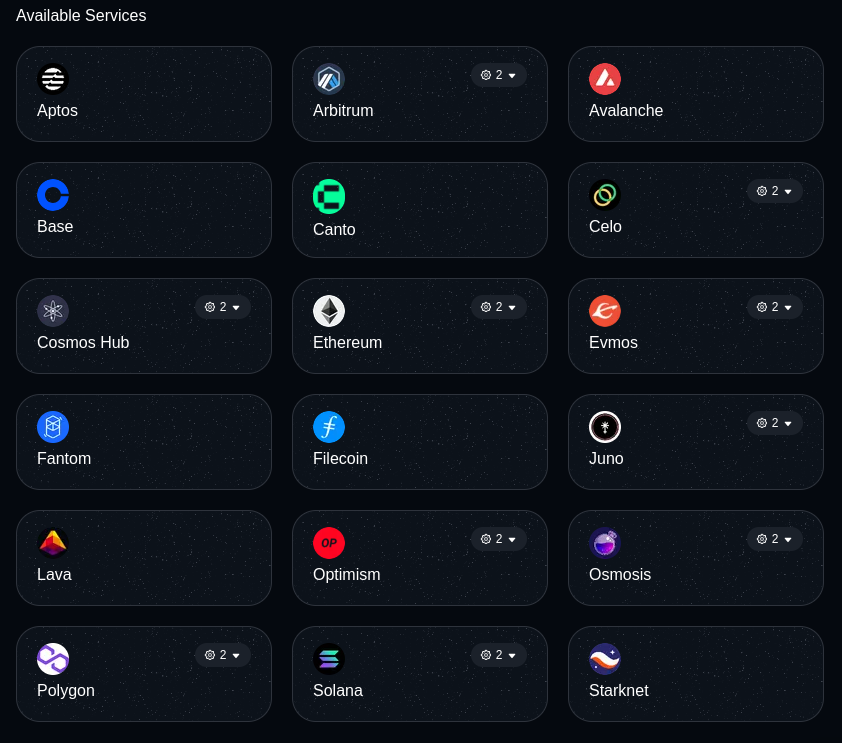
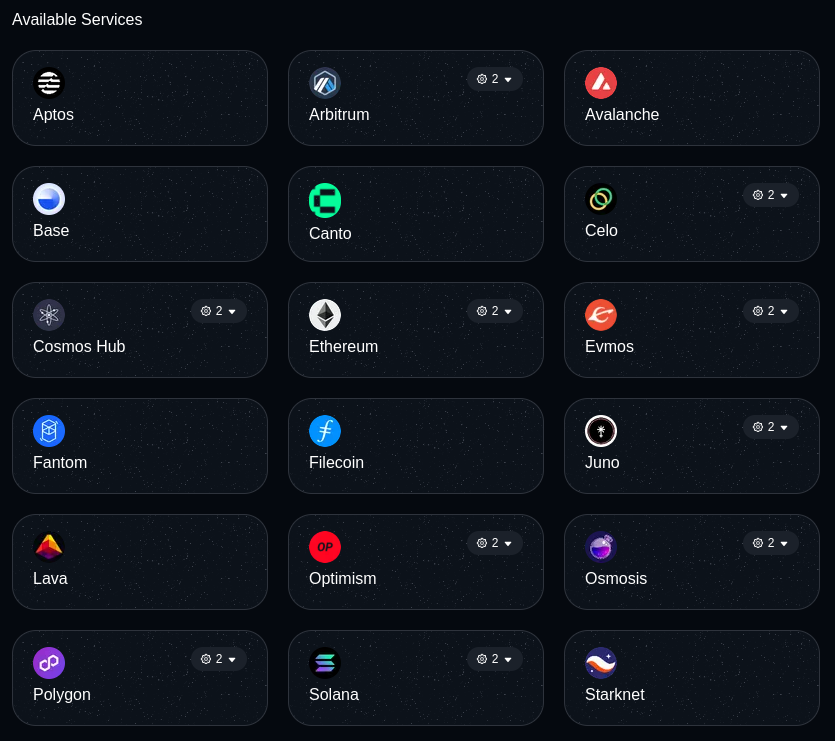
Post-Fork Update (#160)
* update/replace supported chains png

* add UTMs to gateway getting started page

* add UTMs to gateway access page

* add UTMs to gw links in intro pages

* add discord to top navbar

* add UTM campaign docs-to-gateway

* correct UTMs on chain pages

* add new geolocation mapping to provider pages

* add developer FAQ section

* add geolocation note to provider page

* remove global-strict from geolocations section on provider setup

* add provider tls diagram to tls setup

diff --git a/docusaurus.config.js b/docusaurus.config.js
@@ -136,6 +136,11 @@ const config = {
             label: 'GitHub',
             position: 'right',
           },
+          {
+            href: 'https://discord.gg/Tbk5NxTCdA',
+            label: 'Discord',
+            position: 'right',
+          },
         ],
       },
       footer: {

diff --git a/docs/chains/solana-chain/solana-dev.md b/docs/chains/solana-chain/solana-dev.md
@@ -13,7 +13,7 @@ import TabItem from '@theme/TabItem';
 
 :::caution
 
-Lava SDK is currently in Alpha. Please observe the documentation on both [frontend](https://docs.lavanet.xyz/sdk-frontend?utm_source=getting-solana-rpc&utm_medium=docs&utm_campaign=sdk-alpha) and [backend](https://docs.lavanet.xyz/sdk-backend?utm_source=getting-solana-rpc&utm_medium=docs&utm_campaign=sdk-alpha) use before getting started.
+Lava SDK is currently in Alpha. Please observe the documentation on both [frontend](https://docs.lavanet.xyz/sdk-frontend?utm_source=getting-solana-rpc&utm_medium=docs&utm_campaign=docs-to-docs) and [backend](https://docs.lavanet.xyz/sdk-backend?utm_source=getting-solana-rpc&utm_medium=docs&utm_campaign=docs-to-docs) use before getting started.
 
 :::
 
@@ -90,93 +90,13 @@ async function useSolanaMainnet() {
 
 <iframe width="100%" src="/img/chains/solana_call.webm" frameborder="0" allow="autoplay; encrypted-media; gyroscope; picture-in-picture" allowfullscreen></iframe>
 
-To learn more about our SDK visit the [Getting Started guide](https://docs.lavanet.xyz/sdk-getting-started?utm_source=getting-solana-rpc&utm_medium=docs&utm_campaign=solana-pre-grant)
+To learn more about our SDK visit the [Getting Started guide](https://docs.lavanet.xyz/sdk-getting-started?utm_source=getting-solana-rpc&utm_medium=docs&utm_campaign=docs-to-docs)
 
 <hr />
 
-## [Gateway](https://gateway.lavanet.xyz)
+## [Gateway](https://gateway.lavanet.xyz/?utm_source=solana-dev&utm_medium=docs&utm_campaign=docs-to-gateway)
 
-To learn more about using the Lava Gateway visit the [Getting Started guide](https://docs.lavanet.xyz/gateway-getting-started?utm_source=getting-solana-rpc&utm_medium=docs&utm_campaign=solana-pre-grant)
+To learn more about using the Lava Gateway visit the [Getting Started guide](https://docs.lavanet.xyz/gateway-getting-started?utm_source=solana-dev&utm_medium=docs&utm_campaign=docs-to-docs)
 
 <hr />
 <br />
-
-
-## Supported APIs 
-
-https://raw.githubusercontent.com/lavanet/lava/main/cookbook/specs/spec_add_solana.json
-
-
-| Platform  |  jsonrpc/http | jsonrpc/wss 
-| --------- | ------------- | -----------
-| Gateway   | ✅            | ✅
-| SDK       | ✅            | 
-
-<details>
-<summary> All Methods</summary>
-
-
-- getAccountInfo
-- getBalance
-- getBlock
-- getBlockHeight
-- getBlockProduction
-- getBlockCommitment
-- getBlocks
-- getBlocksWithLimit
-- getBlockTime
-- getClusterNodes
-- getEpochInfo
-- getEpochSchedule
-- getFeeForMessage
-- getFirstAvailableBlock
-- getGenesisHash
-- getHealth
-- getHighestSnapshotSlot
-- getIdentity
-- getInflationGovernor
-- getInflationRate
-- getInflationReward
-- getLargestAccounts
-- getLatestBlockhash
-- getLeaderSchedule
-- getMaxRetransmitSlot
-- getMinimumBalanceForRentExemption
-- getMultipleAccounts
-- getProgramAccounts
-- getRecentPerformanceSamples
-- getRecentPrioritizationFees
-- getSignaturesForAddress
-- getSignatureStatuses
-- getSlot
-- getSlotLeader
-- getSlotLeaders
-- getStakeActivation
-- getStakeMinimumDelegation
-- getSupply
-- getTokenAccountBalance
-- getTokenAccountsByDelegate
-- getTokenAccountsByOwner
-- getTokenLargestAccounts
-- getTokenSupply
-- getTransaction
-- getTransactionCount
-- getVersion
-- getVoteAccounts
-- isBlockhashValid
-- minimumLedgerSlot
-- requestAirdrop
-- sendTransaction
-- simulateTransaction
-- getConfirmedBlock
-- getConfirmedBlocks
-- getConfirmedBlocksWithLimit
-- getConfirmedSignaturesForAddress2
-- getConfirmedTransaction
-- getFeeCalculatorForBlockhash
-- getFeeRateGovernor
-- getFees
-- getRecentBlockhash
-- getSnapshotSlot
-
-</details>

diff --git a/docs/chains/juno-chain/juno-dev.md b/docs/chains/juno-chain/juno-dev.md
@@ -12,7 +12,7 @@ import TabItem from '@theme/TabItem';
 
 :::caution 
 
-Lava SDK is currently in Alpha. Please observe the documentation on both [frontend](https://docs.lavanet.xyz/sdk-frontend?utm_source=getting-juno-rpc&utm_medium=docs&utm_campaign=sdk-alpha) and [backend](https://docs.lavanet.xyz/sdk-backend?utm_source=getting-juno-rpc&utm_medium=docs&utm_campaign=sdk-alpha) use before getting started.
+Lava SDK is currently in Alpha. Please observe the documentation on both [frontend](https://docs.lavanet.xyz/sdk-frontend?utm_source=getting-juno-rpc&utm_medium=docs&utm_campaign=docs-to-docs) and [backend](https://docs.lavanet.xyz/sdk-backend?utm_source=getting-juno-rpc&utm_medium=docs&utm_campaign=docs-to-docs) use before getting started.
 
 :::
 
@@ -84,15 +84,15 @@ async function useJunoTestnet() {
 
 <iframe width="100%" src="/img/chains/juno_call.webm" frameborder="0" allow="autoplay; encrypted-media; gyroscope; picture-in-picture" allowfullscreen></iframe>
 
-To learn more about our SDK visit the [Getting Started guide](https://docs.lavanet.xyz/sdk-getting-started?utm_source=getting-juno-rpc&utm_medium=docs&utm_campaign=juno-pre-grant)
+To learn more about our SDK visit the [Getting Started guide](https://docs.lavanet.xyz/sdk-getting-started?utm_source=getting-juno-rpc&utm_medium=docs&utm_campaign=docs-to-docs)
 
 <hr />
 
-## [Gateway](https://gateway.lavanet.xyz)
+## [Gateway](https://gateway.lavanet.xyz/?utm_source=juno-dev&utm_medium=docs&utm_campaign=docs-to-gateway)
 
 <video width="100%" height="100%" controls><source src="/img/chains/junovideodemo.mp4" type="video/mp4"></source></video>
 
-To learn more about using the Lava Gateway visit the [Getting Started guide](https://docs.lavanet.xyz/gateway-getting-started?utm_source=getting-juno-rpc&utm_medium=docs&utm_campaign=juno-pre-grant)
+To learn more about using the Lava Gateway visit the [Getting Started guide](https://docs.lavanet.xyz/gateway-getting-started?utm_source=juno-dev&utm_medium=docs&utm_campaign=docs-to-docs)
 
 <hr />
 <br />

diff --git a/docs/chains/filecoin-chain/filecoin-dev.md b/docs/chains/filecoin-chain/filecoin-dev.md
@@ -12,7 +12,7 @@ import TabItem from '@theme/TabItem';
 
 :::caution 
 
-Lava SDK is currently in Alpha. Please observe the documentation on both [frontend](https://docs.lavanet.xyz/sdk-frontend?utm_source=getting-filecoin-rpc&utm_medium=docs&utm_campaign=sdk-alpha) and [backend](https://docs.lavanet.xyz/sdk-backend?utm_source=getting-filecoin-rpc&utm_medium=docs&utm_campaign=sdk-alpha) use before getting started.
+Lava SDK is currently in Alpha. Please observe the documentation on both [frontend](https://docs.lavanet.xyz/sdk-frontend?utm_source=getting-filecoin-rpc&utm_medium=docs&utm_campaign=docs-to-docs) and [backend](https://docs.lavanet.xyz/sdk-backend?utm_source=getting-filecoin-rpc&utm_medium=docs&utm_campaign=docs-to-docs) use before getting started.
 
 :::
 
@@ -83,13 +83,13 @@ async function useFilecoinMainnet() {
 
 <iframe width="100%" src="/img/chains/filecoin_call.webm" frameborder="0" allow="autoplay; encrypted-media; gyroscope; picture-in-picture" allowfullscreen></iframe>
 
-To learn more about our SDK visit the [Getting Started guide](https://docs.lavanet.xyz/sdk-getting-started?utm_source=getting-filecoin-rpc&utm_medium=docs&utm_campaign=sdk-alpha-launch)
+To learn more about our SDK visit the [Getting Started guide](https://docs.lavanet.xyz/sdk-getting-started?utm_source=getting-filecoin-rpc&utm_medium=docs&utm_campaign=docs-to-docs)
 
 <hr />
 
-## [Gateway](https://gateway.lavanet.xyz)
+## [Gateway](https://gateway.lavanet.xyz/?utm_source=filecoin-dev&utm_medium=docs&utm_campaign=docs-to-gateway)
 
-To learn more about using the Lava Gateway visit the [Getting Started guide](/gateway-getting-started)
+To learn more about using the Lava Gateway visit the [Getting Started guide](https://docs.lavanet.xyz/gateway-getting-started?utm_source=filecoin-dev&utm_medium=docs&utm_campaign=docs-to-docs)
 
 <hr />
 <br />

diff --git a/docs/chains/avalanche-chain/avalanche-dev.md b/docs/chains/avalanche-chain/avalanche-dev.md
@@ -12,7 +12,7 @@ import TabItem from '@theme/TabItem';
 
 :::caution 
 
-Lava SDK is currently in Alpha. Please observe the documentation on both [frontend](https://docs.lavanet.xyz/sdk-frontend?utm_source=getting-avalanche-rpc&utm_medium=docs&utm_campaign=sdk-alpha) and [backend](https://docs.lavanet.xyz/sdk-backend?utm_source=getting-avalanche-rpc&utm_medium=docs&utm_campaign=sdk-alpha) use before getting started.
+Lava SDK is currently in Alpha. Please observe the documentation on both [frontend](https://docs.lavanet.xyz/sdk-frontend?utm_source=getting-avalanche-rpc&utm_medium=docs&utm_campaign=docs-to-docs) and [backend](https://docs.lavanet.xyz/sdk-backend?utm_source=getting-avalanche-rpc&utm_medium=docs&utm_campaign=docs-to-docs) use before getting started.
 
 :::
 
@@ -87,11 +87,11 @@ async function useAvalancheMainnet() {
 
 <iframe width="100%" src="/img/chains/avalanche_call.webm" frameborder="0" allow="autoplay; encrypted-media; gyroscope; picture-in-picture" allowfullscreen></iframe>
 
-To learn more about our SDK visit the [Getting Started guide](https://docs.lavanet.xyz/sdk-getting-started?utm_source=getting-avalanche-rpc&utm_medium=docs&utm_campaign=sdk-alpha-launch)
+To learn more about our SDK visit the [Getting Started guide](https://docs.lavanet.xyz/sdk-getting-started?utm_source=getting-avalanche-rpc&utm_medium=docs&utm_campaign=docs-to-docs)
 
 <hr />
 
-## [Gateway](https://gateway.lavanet.xyz)
+## [Gateway](https://gateway.lavanet.xyz/?utm_source=avalanche-dev&utm_medium=docs&utm_campaign=docs-to-gateway)
 
-To learn more about using the Lava Gateway visit the [Getting Started guide](/gateway-getting-started)
+To learn more about using the Lava Gateway visit the [Getting Started guide](https://docs.lavanet.xyz/gateway-getting-started?utm_source=avalanche-dev&utm_medium=docs&utm_campaign=docs-to-docs)
 

diff --git a/docs/chains/starknet-chain/starknet-dev.md b/docs/chains/starknet-chain/starknet-dev.md
@@ -12,7 +12,7 @@ import TabItem from '@theme/TabItem';
 
 :::caution 
 
-Lava SDK is currently in Alpha. Please observe the documentation on both [frontend](https://docs.lavanet.xyz/sdk-frontend?utm_source=getting-starknet-rpc&utm_medium=docs&utm_campaign=sdk-alpha) and [backend](https://docs.lavanet.xyz/sdk-backend?utm_source=getting-starknet-rpc&utm_medium=docs&utm_campaign=sdk-alpha) use before getting started.
+Lava SDK is currently in Alpha. Please observe the documentation on both [frontend](https://docs.lavanet.xyz/sdk-frontend?utm_source=getting-starknet-rpc&utm_medium=docs&utm_campaign=docs-to-docs) and [backend](https://docs.lavanet.xyz/sdk-backend?utm_source=getting-starknet-rpc&utm_medium=docs&utm_campaign=docs-to-docs) use before getting started.
 
 :::
 
@@ -89,11 +89,11 @@ async function useStarknet() {
 
 <iframe width="100%" src="/img/chains/starknet_call.webm" frameborder="0" allow="autoplay; encrypted-media; gyroscope; picture-in-picture" allowfullscreen></iframe>
 
-To learn more about our SDK visit the [Getting Started guide](https://docs.lavanet.xyz/sdk-getting-started?utm_source=getting-starknet-rpc&utm_medium=docs&utm_campaign=sdk-alpha-launch)
+To learn more about our SDK visit the [Getting Started guide](https://docs.lavanet.xyz/sdk-getting-started?utm_source=getting-starknet-rpc&utm_medium=docs&utm_campaign=docs-to-docs)
 
 <hr />
 
-## [Gateway](https://gateway.lavanet.xyz)
+## [Gateway](https://gateway.lavanet.xyz/?utm_source=starknet-dev&utm_medium=docs&utm_campaign=docs-to-gateway)
 
-To learn more about using the Lava Gateway visit the [Getting Started guide](/gateway-getting-started)
+To learn more about using the Lava Gateway visit the [Getting Started guide](https://docs.lavanet.xyz/gateway-getting-started?utm_source=starknet-dev&utm_medium=docs&utm_campaign=docs-to-docs)
 

diff --git a/docs/chains/evmos-chain/evmos-dev.md b/docs/chains/evmos-chain/evmos-dev.md
@@ -12,7 +12,7 @@ import TabItem from '@theme/TabItem';
 
 :::caution 
 
-Lava SDK is currently in Alpha. Please observe the documentation on both [frontend](https://docs.lavanet.xyz/sdk-frontend?utm_source=getting-evmos-rpc&utm_medium=docs&utm_campaign=sdk-alpha) and [backend](https://docs.lavanet.xyz/sdk-backend?utm_source=getting-evmos-rpc&utm_medium=docs&utm_campaign=sdk-alpha) use before getting started.
+Lava SDK is currently in Alpha. Please observe the documentation on both [frontend](https://docs.lavanet.xyz/sdk-frontend?utm_source=getting-evmos-rpc&utm_medium=docs&utm_campaign=docs-to-docs) and [backend](https://docs.lavanet.xyz/sdk-backend?utm_source=getting-evmos-rpc&utm_medium=docs&utm_campaign=docs-to-docs) use before getting started.
 
 :::
 
@@ -83,13 +83,13 @@ async function useEvmosTestnet() {
 
 <iframe width="100%" src="/img/chains/evmos_call.webm" frameborder="0" allow="autoplay; encrypted-media; gyroscope; picture-in-picture" allowfullscreen></iframe>
 
-To learn more about our SDK visit the [Getting Started guide](https://docs.lavanet.xyz/sdk-getting-started?utm_source=getting-evmos-rpc&utm_medium=docs&utm_campaign=sdk-alpha)
+To learn more about our SDK visit the [Getting Started guide](https://docs.lavanet.xyz/sdk-getting-started?utm_source=getting-evmos-rpc&utm_medium=docs&utm_campaign=docs-to-docs)
 
 <hr />
 
-## [Gateway](https://gateway.lavanet.xyz)
+## [Gateway](https://gateway.lavanet.xyz/?utm_source=evmos-dev&utm_medium=docs&utm_campaign=docs-to-gateway)
 
-To learn more about using the Lava Gateway visit the [Getting Started guide](/gateway-getting-started)
+To learn more about using the Lava Gateway visit the [Getting Started guide](https://docs.lavanet.xyz/gateway-getting-started?utm_source=evmos-dev&utm_medium=docs&utm_campaign=docs-to-docs)
 
 <hr />
 <br />

diff --git a/docs/chains/celo-chain/celo-dev.md b/docs/chains/celo-chain/celo-dev.md
@@ -12,7 +12,7 @@ import TabItem from '@theme/TabItem';
 
 :::caution 
 
-Lava SDK is currently in Alpha. Please observe the documentation on both [frontend](https://docs.lavanet.xyz/sdk-frontend?utm_source=getting-celo-rpc&utm_medium=docs&utm_campaign=sdk-alpha) and [backend](https://docs.lavanet.xyz/sdk-backend?utm_source=getting-celo-rpc&utm_medium=docs&utm_campaign=sdk-alpha) use before getting started.
+Lava SDK is currently in Alpha. Please observe the documentation on both [frontend](https://docs.lavanet.xyz/sdk-frontend?utm_source=getting-celo-rpc&utm_medium=docs&utm_campaign=docs-to-docs) and [backend](https://docs.lavanet.xyz/sdk-backend?utm_source=getting-celo-rpc&utm_medium=docs&utm_campaign=docs-to-docs) use before getting started.
 
 :::
 
@@ -85,13 +85,13 @@ async function useCeloMainnet() {
 <iframe width="100%" src="/img/chains/celo_call.webm" frameborder="0" allow="autoplay; encrypted-media; gyroscope; picture-in-picture" allowfullscreen></iframe>
 
 
-To learn more about our SDK visit the [Getting Started guide](https://docs.lavanet.xyz/sdk-getting-started?utm_source=getting-celo-rpc&utm_medium=docs&utm_campaign=sdk-alpha)
+To learn more about our SDK visit the [Getting Started guide](https://docs.lavanet.xyz/sdk-getting-started?utm_source=getting-celo-rpc&utm_medium=docs&utm_campaign=docs-to-docs)
 
 <hr />
 
-## [Gateway](https://gateway.lavanet.xyz)
+## [Gateway](https://gateway.lavanet.xyz/?utm_source=celo-dev&utm_medium=docs&utm_campaign=docs-to-gateway)
 
-To learn more about using the Lava Gateway visit the [Getting Started guide](/gateway-getting-started)
+To learn more about using the Lava Gateway visit the [Getting Started guide](https://docs.lavanet.xyz/gateway-getting-started?utm_source=celo-dev&utm_medium=docs&utm_campaign=docs-to-docs)
 
 <hr />
 <br />

diff --git a/docs/access-apis/gateway-getting-started.md b/docs/access-apis/gateway-getting-started.md
@@ -4,7 +4,7 @@ title: Getting Started with Lava Gateway 🔥
 ---
 # Getting Started with Lava Gateway 🔥
 
-Getting started with our Lava gateway is simple! You can access our Lava gateway at any time: gateway.lavanet.xyz. You are only a few clicks away from fast, available, and accountable RPC.
+Getting started with our Lava gateway is simple! You can access our Lava gateway at any time: [gateway.lavanet.xyz](https://accounts.lavanet.xyz/register?utm_source=getting-started-with-lava-gateway&utm_medium=docs&utm_campaign=docs-to-gateway). You are only a few clicks away from fast, available, and accountable RPC.
 
 ## 🎥 Video Demonstration (~7m) 
 
@@ -18,7 +18,7 @@ Getting started with our Lava gateway is simple! You can access our Lava gateway
 
 ### Create an Account
 
-If you’re stumped about how to get started — don’t worry at all! It’s as simple as putting in your credentials or creating an account at [gateway.lavanet.xyz/](https://gateway.lavanet.xyz/) . 
+If you’re stumped about how to get started — don’t worry at all! It’s as simple as putting in your credentials or creating an account at [gateway.lavanet.xyz/](https://accounts.lavanet.xyz/register?utm_source=getting-started-with-lava-gateway&utm_medium=docs&utm_campaign=docs-to-gateway) . 
 
 ![CreateAccountScreenshot](/img/tutorial/gateway/create_account_screenshot.png)
 

diff --git a/docs/faq.md b/docs/faq.md
@@ -50,3 +50,14 @@ You can use the following query: `lavad q pairing providers <CHAIN_ID>`
 
 ### When running my provider process `lavad server` I get the following error `provider endpoint mismatch`
 This error means that you have used different geolocations when using  the `provider-stake` transaction and when running `lavad server`, please ensure they match and the problem should be resolved.
+
+## Developer
+
+### Using Lava with Other RPC Clients
+
+Lava easily integrates with other RPC clients. Simply create an account on the gateway, and replace your client's RPC URL with the appopriate one.
+
+#### How to change the RPC url which Cosmjs uses?
+If you want a native integration to use seamlessly, please check out the cosmolava-client created by one of our community members: [MELLIFERA-Labs/cosmolava-client](https://github.com/MELLIFERA-Labs/cosmolava-client)
+
+If you just want to switch the RPC URL you can do so using the HttpEndpoint interface on [stargate](https://cosmos.github.io/cosmjs/latest/stargate/interfaces/HttpEndpoint.html#url) or [cosmwasm-stargate](https://cosmos.github.io/cosmjs/latest/cosmwasm-stargate/interfaces/HttpEndpoint.html#url). Be sure you've grabbed the TendermintRPC endpoint from Lava or you may encounter errors.

diff --git a/docs/chains/optimism-chain/optimism-dev.md b/docs/chains/optimism-chain/optimism-dev.md
@@ -85,13 +85,13 @@ async function useoptimismMainnet() {
 
 <iframe width="100%" src="/img/chains/optimism_call.webm" frameborder="0" allow="autoplay; encrypted-media; gyroscope; picture-in-picture" allowfullscreen></iframe>
 
-To learn more about our SDK visit the [Getting Started guide](https://docs.lavanet.xyz/sdk-getting-started?utm_source=getting-optimism-rpc&utm_medium=docs&utm_campaign=sdk-alpha-launch)
+To learn more about our SDK visit the [Getting Started guide](https://docs.lavanet.xyz/sdk-getting-started?utm_source=getting-optimism-rpc&utm_medium=docs&utm_campaign=docs-to-docs)
 
 <hr />
 
-## [Gateway](https://gateway.lavanet.xyz)
+## [Gateway](https://gateway.lavanet.xyz/?utm_source=optimism-dev&utm_medium=docs&utm_campaign=docs-to-gateway)
 
-To learn more about using the Lava Gateway visit the [Getting Started guide](/gateway-getting-started)
+To learn more about using the Lava Gateway visit the [Getting Started guide](https://docs.lavanet.xyz/gateway-getting-started?utm_source=optimism-dev&utm_medium=docs&utm_campaign=docs-to-docs)
 
 <hr />
 <br />

diff --git a/docs/access-apis/sdk-backend.md b/docs/access-apis/sdk-backend.md
@@ -7,7 +7,7 @@ title: Backend Use
 
 :::tip
 
-If you are planning to use Lava for frontend development, you simply need to visit our [Gateway](https://gateway.lavanet.xyz/?utm_source=lava-sdk-docs&utm_medium=docs&utm_campaign=sdk-alpha-launch) to get started!
+If you are planning to use Lava for frontend development, you simply need to visit our [Gateway](https://gateway.lavanet.xyz/?utm_source=sdk-backend-page&utm_medium=docs&utm_campaign=docs-to-gateway) to get started!
  Read more about how badges make keyless frontend development safe [here](/sdk-frontend).
 
 :::
@@ -19,7 +19,7 @@ The first step to using the Lava SDK is to register for the Lava Gateway. You wi
 
 <center>
 
-👉🏿[Register now](https://accounts.lavanet.xyz/register?utm_source=lava-sdk-docs&utm_medium=docs&utm_campaign=sdk-alpha-launch) if you haven’t already!
+👉🏿[Register now](https://gateway.lavanet.xyz/?utm_source=sdk-backend-page&utm_medium=docs&utm_campaign=docs-to-gateway) if you haven’t already!
 
 
 ![Gateway Register](/img/tutorial/sdk/GatewayRegister.png)
